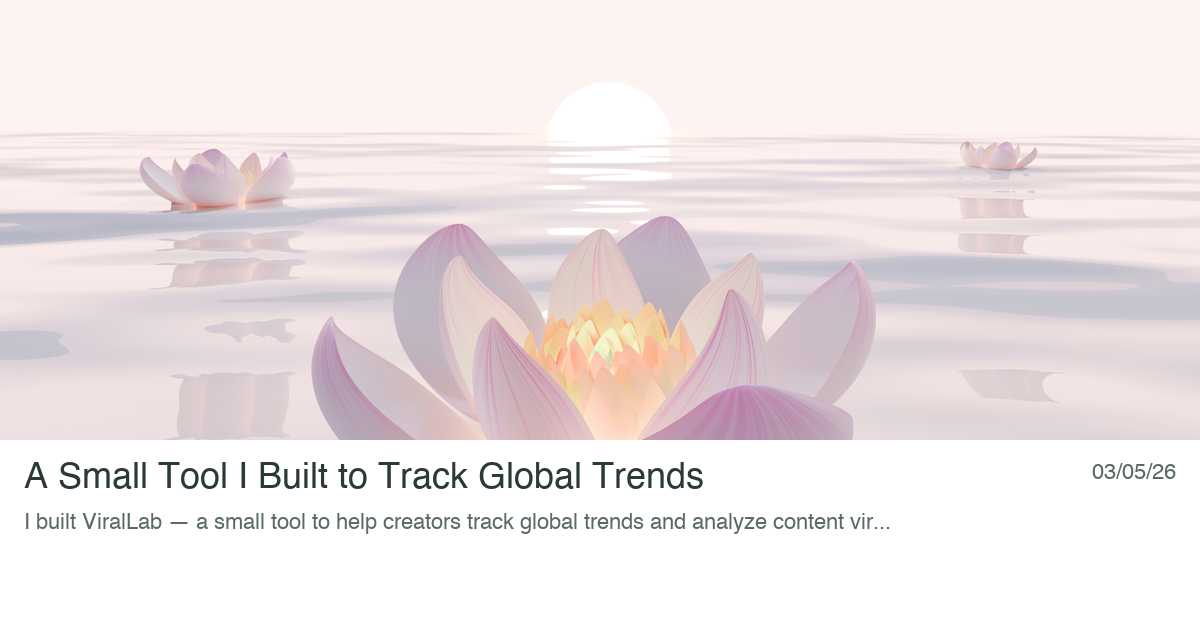
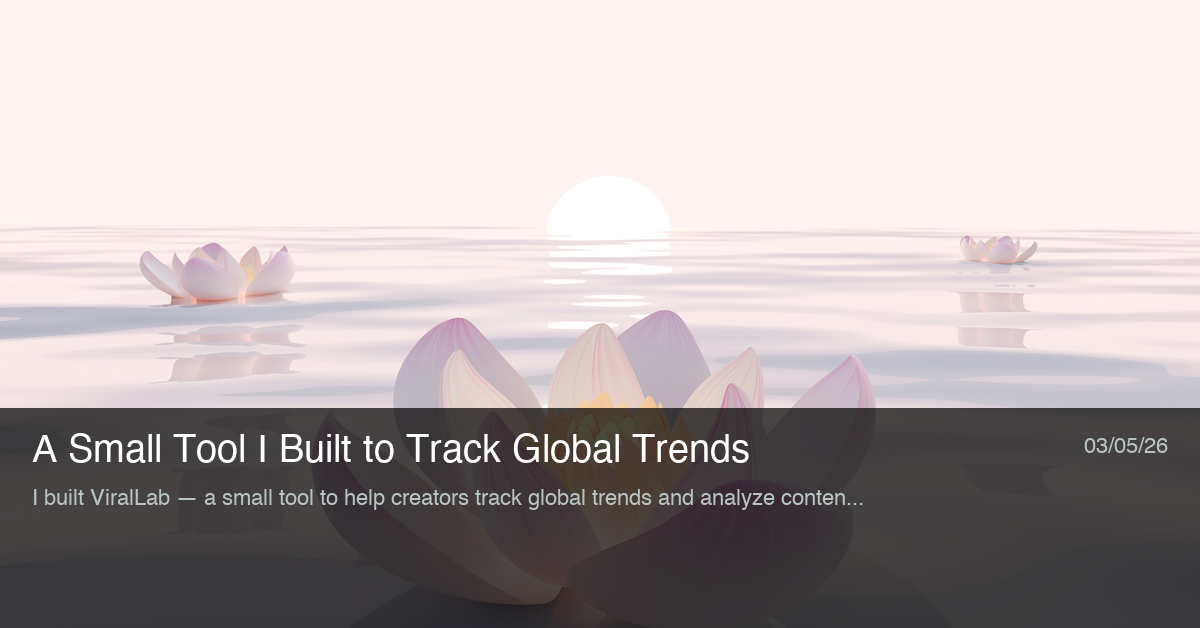
Fix Chinese lang switch, preview cards, OG overlay
- Post layout: use title_zh for data-title-zh on EN pages
- Default layout: respect zh preference for initial lang attribute
- OG cards: full-cover overlay with title, date, excerpt

Made-with: Cursor

diff --git a/_layouts/post.html b/_layouts/post.html
@@ -4,7 +4,7 @@ layout: default
 {% assign post_url = page.url | prepend: site.baseurl | prepend: site.url %}
 <article class="post content-paper" data-page-type="post">
   <header class="post-header post-header-above">
-    <h1 class="post-title" data-title-zh="{{ page.title | escape }}" data-title-en="{{ page.title_en | default: page.title | escape }}">{{ page.title | escape }}</h1>
+    <h1 class="post-title" data-title-zh="{{ page.title_zh | default: page.title | escape }}" data-title-en="{{ page.title_en | default: page.title | escape }}">{{ page.title | escape }}</h1>
     {% assign date_format = site.minima.date_format | default: "%b %-d, %Y" %}
     {% assign words = page.content | number_of_words %}
     {% assign read_time = words | divided_by: 200 | at_least: 1 %}

diff --git a/_layouts/default.html b/_layouts/default.html
@@ -3,7 +3,9 @@
   {%- include head.html -%}
   {% if page.layout == 'post' %}
   <script>
-    if (localStorage.getItem('lang') === 'en') { document.documentElement.lang = 'en'; }
+    var lang = localStorage.getItem('lang');
+    if (lang === 'en') { document.documentElement.lang = 'en'; }
+    else if (lang === 'zh') { document.documentElement.lang = 'zh-CN'; }
   </script>
   {% endif %}
   <body>

diff --git a/scripts/generate-og-cards.py b/scripts/generate-og-cards.py
@@ -16,13 +16,11 @@ POSTS_DIR = Path(__file__).parent.parent / "_posts"
 ASSETS = Path(__file__).parent.parent / "assets" / "images" / "posts"
 # OG image size (Twitter/FB recommended)
 W, H = 1200, 628
-IMG_H = 440  # image area height
-TEXT_H = H - IMG_H
-BODY_PADDING = 24
-BG = "#ffffff"
-TITLE_COLOR = "#2a3a38"
-META_COLOR = "#5a6a67"
-CARD_RADIUS = 10
+OVERLAY_H = 220  # dark bar height at bottom
+BODY_PADDING = 32
+OVERLAY_COLOR = (0, 0, 0, 180)  # semi-transparent black
+TITLE_COLOR = "#ffffff"
+META_COLOR = "#b8c4c2"
 
 
 def load_post(path):
@@ -80,50 +78,62 @@ def draw_card(data):
     out_path = data["out_dir"] / "og-card.png"
     data["out_dir"].mkdir(parents=True, exist_ok=True)
 
-    # Load and crop cover image
+    # Load and crop cover to fill full card (1200x628)
     img = Image.open(data["img_path"]).convert("RGB")
     iw, ih = img.size
-    scale = max(W / iw, IMG_H / ih)
+    scale = max(W / iw, H / ih)
     nw, nh = int(iw * scale), int(ih * scale)
     img = img.resize((nw, nh), Image.Resampling.LANCZOS)
     x = (nw - W) // 2
-    y = (nh - IMG_H) // 2
-    img = img.crop((x, y, x + W, y + IMG_H))
+    y = (nh - H) // 2
+    card = img.crop((x, y, x + W, y + H))
 
-    # Create canvas
-    card = Image.new("RGB", (W, H), BG)
-    card.paste(img, (0, 0))
-
-    # Draw text area background
+    # Semi-transparent overlay bar at bottom
+    overlay = Image.new("RGBA", (W, H), (0, 0, 0, 0))
+    draw_overlay = ImageDraw.Draw(overlay)
+    draw_overlay.rectangle([0, H - OVERLAY_H, W, H], fill=OVERLAY_COLOR)
+    card = card.convert("RGBA")
+    card = Image.alpha_composite(card, overlay)
+    card = card.convert("RGB")
     draw = ImageDraw.Draw(card)
-    draw.rectangle([0, IMG_H, W, H], fill=BG)
 
-    # Fonts (fallback to default)
-    try:
-        title_font = ImageFont.truetype("/System/Library/Fonts/Helvetica.ttc", 36)
-        meta_font = ImageFont.truetype("/System/Library/Fonts/Helvetica.ttc", 22)
-    except Exception:
-        title_font = ImageFont.load_default()
-        meta_font = title_font
+    # Fonts (macOS, Linux CI, fallback)
+    font_paths = [
+        "/System/Library/Fonts/Helvetica.ttc",
+        "/usr/share/fonts/truetype/dejavu/DejaVuSans.ttf",
+        "/usr/share/fonts/truetype/liberation/LiberationSans-Regular.ttf",
+    ]
+    title_font = meta_font = None
+    for fp in font_paths:
+        if Path(fp).exists():
+            try:
+                title_font = ImageFont.truetype(fp, 38)
+                meta_font = ImageFont.truetype(fp, 22)
+                break
+            except Exception:
+                pass
+    if not title_font:
+        title_font = meta_font = ImageFont.load_default()
 
-    # Title (truncate if needed)
+    base_y = H - OVERLAY_H + 24
+
+    # Title (white)
     title = data["title"]
-    if len(title) > 55:
-        title = title[:52] + "..."
-    draw.text((BODY_PADDING, IMG_H + 20), title, fill=TITLE_COLOR, font=title_font)
+    if len(title) > 50:
+        title = title[:47] + "..."
+    draw.text((BODY_PADDING, base_y), title, fill=TITLE_COLOR, font=title_font)
 
-    # Date top right
+    # Date and excerpt row
     if data["date"]:
         bbox = draw.textbbox((0, 0), data["date"], font=meta_font)
         tw = bbox[2] - bbox[0]
-        draw.text((W - BODY_PADDING - tw, IMG_H + 22), data["date"], fill=META_COLOR, font=meta_font)
+        draw.text((W - BODY_PADDING - tw, base_y + 4), data["date"], fill=META_COLOR, font=meta_font)
 
-    # Excerpt
     excerpt = data["excerpt"]
     if excerpt:
-        if len(excerpt) > 95:
-            excerpt = excerpt[:92] + "..."
-        draw.text((BODY_PADDING, IMG_H + 72), excerpt, fill=META_COLOR, font=meta_font)
+        if len(excerpt) > 90:
+            excerpt = excerpt[:87] + "..."
+        draw.text((BODY_PADDING, base_y + 56), excerpt, fill=META_COLOR, font=meta_font)
 
     card.save(out_path, "PNG", optimize=True)
     return out_path

diff --git a/_posts/2026-03-05-virallab-tracking-global-trends.md b/_posts/2026-03-05-virallab-tracking-global-trends.md
@@ -14,6 +14,7 @@ cover: /assets/images/posts/2026-03-05-virallab-tracking-global-trends/cover.JPG
 ---
 
 
+
 # 做了一个小工具，帮你抓取全球热点内容
 
 回顾 2025 年，我的心态发生着持续变化。去年年底偶然刷到李一舟的视频，我开始思考，机会到底是怎样形成的？他说「一人公司的时代已经到来」，我感受到，时代正在发生巨变，在这个快速变革的时代里，我和很多人一样，正在寻求新的路径。

diff --git a/_posts/2026-02-14-从设计师到 Build in Public：我的新起点.md b/_posts/2026-02-14-从设计师到 Build in Public：我的新起点.md
@@ -14,6 +14,7 @@ cover: /assets/images/posts/2026-02-14-build-in-public/cover.jpg
 ---
 
 
+
 # 从设计师到 Build in Public：我的新起点
 
 为什么我相信 AI + Web3 会是未来的方向
